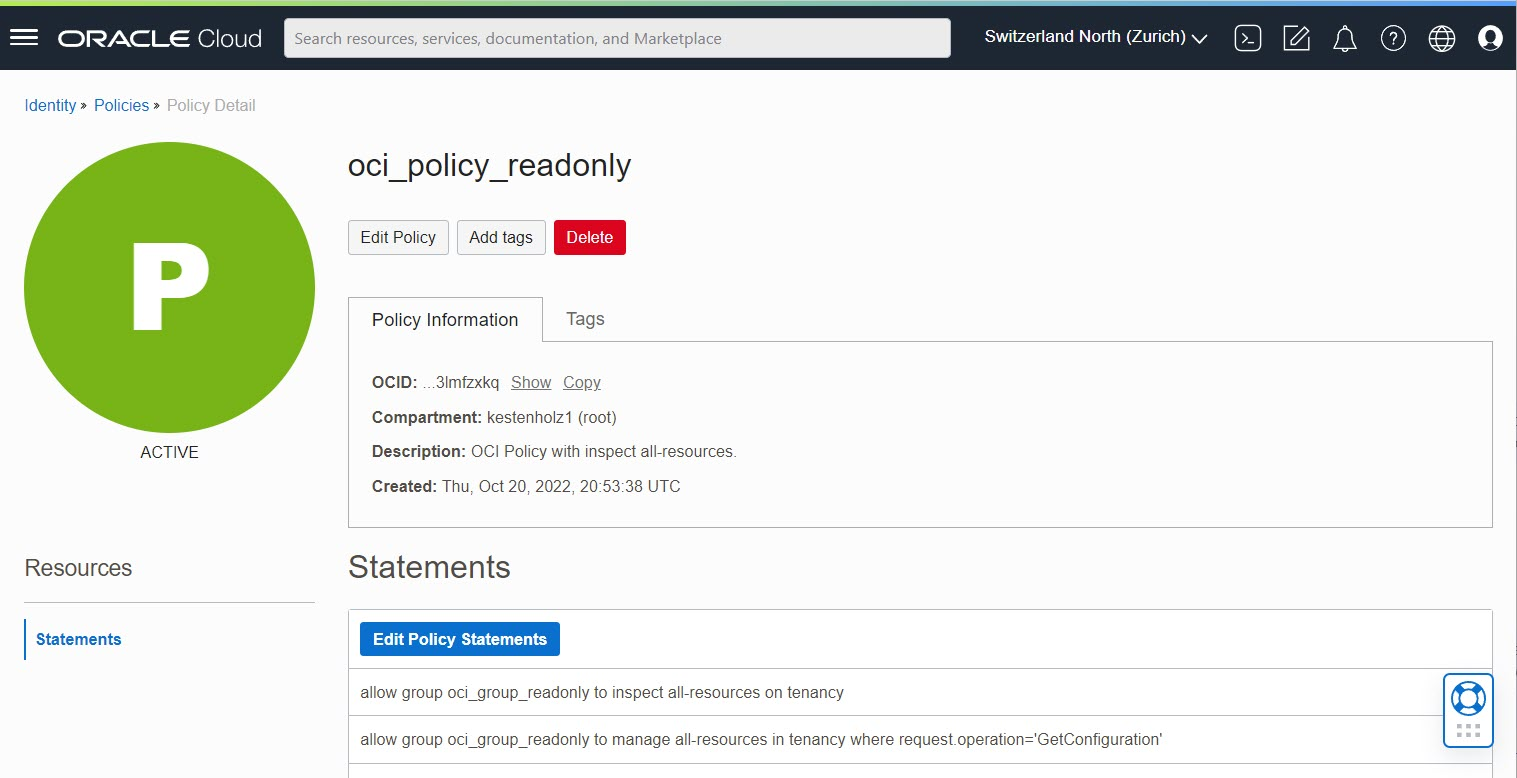
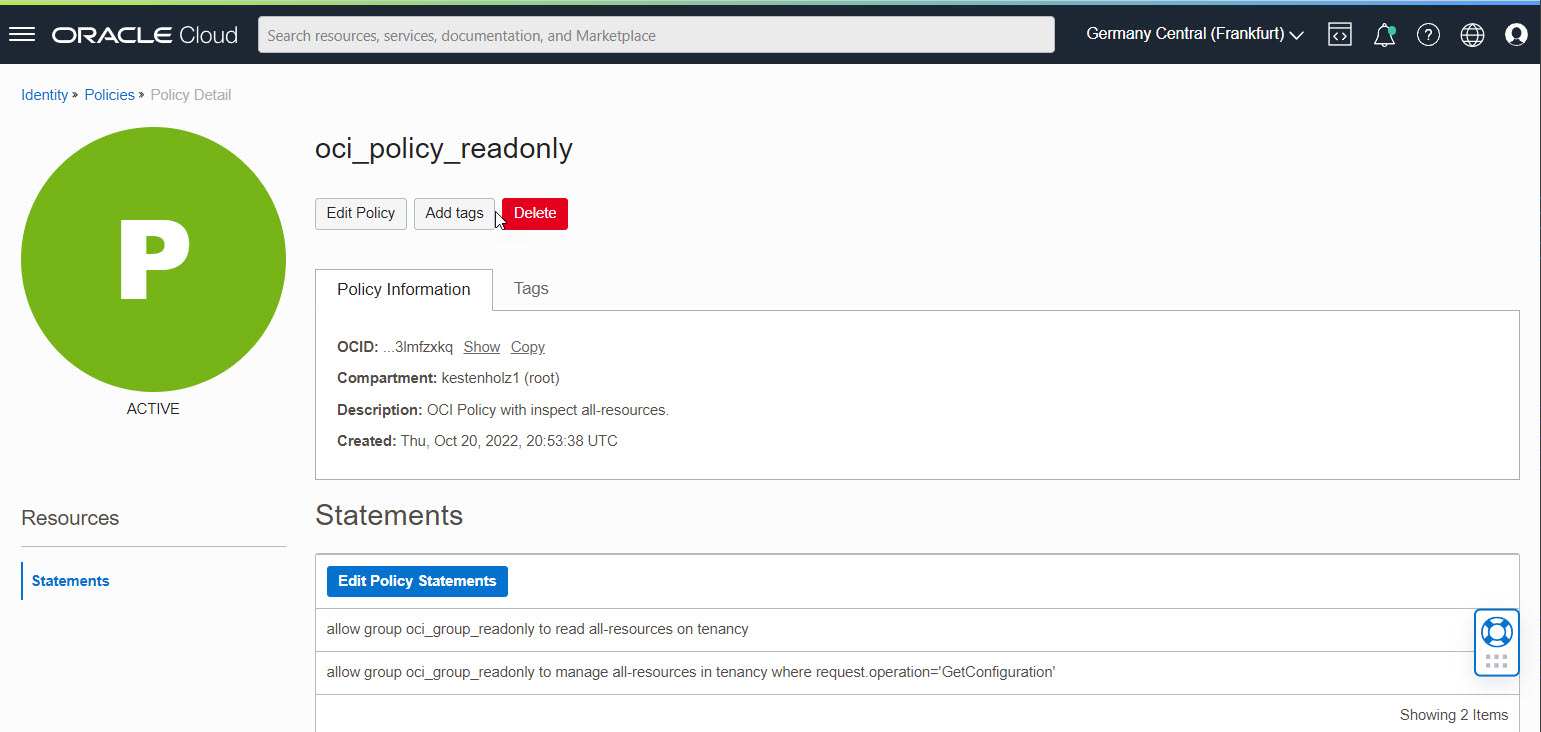
Changed OCI verb from INSPECT to READ

diff --git a/README.md b/README.md
@@ -50,7 +50,7 @@ During the Ansible playbook execution, a new OS user called _steampipe_ is creat
 
 ## Oracle Cloud Infrastructure IAM Requirements
 
-- An OCI User and Group with _inspect all-resources_ and _request.operation='GetConfiguration'_ privileges is required to run steampipe.io - see section below.
+- An OCI User and Group with _read all-resources_ and _request.operation='GetConfiguration'_ privileges is required to run steampipe.io - see section below.
 
 ## Oracle Cloud Infrastructure - Create the user for OCI API access - based on OCI CLI
 
@@ -67,7 +67,7 @@ User, group and policy can be created in web interface too.
 ![OCI Group](images/oci_group_readonly.jpg)
 
 ```bash
-oci iam group create --name oci_group_readonly --description "OCI Group with inspect all-resources privileges."
+oci iam group create --name oci_group_readonly --description "OCI Group with read all-resources privileges."
 ```
 
 ### Create IAM User
@@ -75,7 +75,7 @@ oci iam group create --name oci_group_readonly --description "OCI Group with ins
 ![OCI User](images/oci_user_readonly.jpg)
 
 ```bash
-oci iam user create --name oci_user_readonly --description "OCI User with inspect all-resources." 
+oci iam user create --name oci_user_readonly --description "OCI User with read all-resources." 
 ```
 
 ### Add User to Group
@@ -99,7 +99,7 @@ oci iam policy create \
 --compartment-id <your root compartment OCID> \
 --name oci_policy_readonly \
 --description "OCI Policy with inspect all-resources." \
---statements '[ "allow group oci_group_readonly to inspect all-resources on tenancy","allow group oci_group_readonly to manage all-resources in tenancy where request.operation='GetConfiguration'" ]' \
+--statements '[ "allow group oci_group_readonly to read all-resources on tenancy","allow group oci_group_readonly to manage all-resources in tenancy where request.operation='GetConfiguration'" ]' \
 ```
 
 ### Gather Tenancy OCID Information
